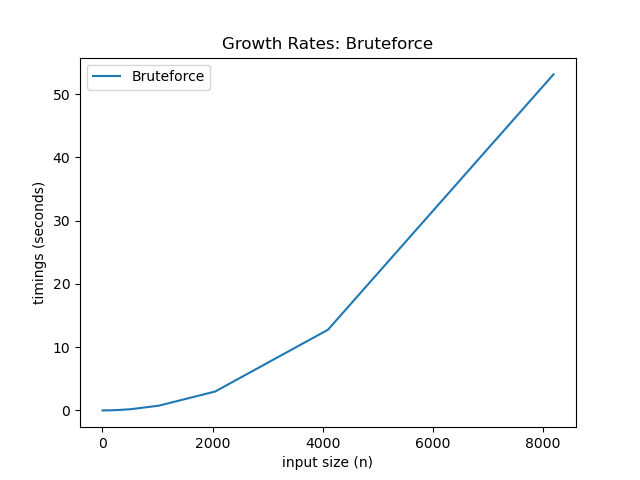
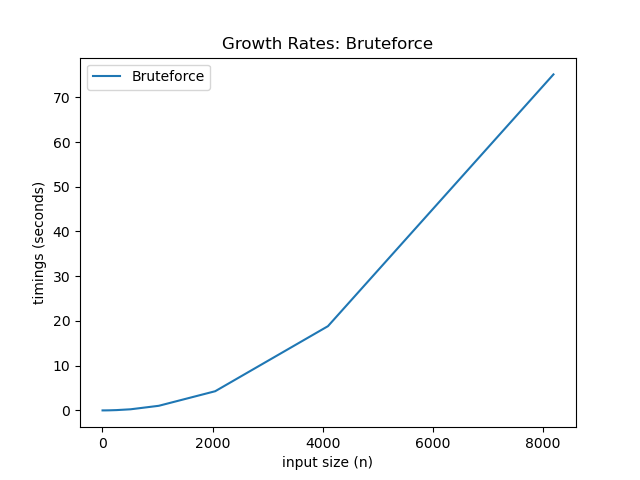
Changed variable names for clarity Changed some index for loops to item for loops Updated benchmark data

diff --git a/closest_pair_points/closest_pair_points.py b/closest_pair_points/closest_pair_points.py
@@ -3,7 +3,6 @@ Closest Pair of Point module
     - Point class
     - Bruteforce closest pair of points
     - Recursive closest pair of points
-    - Util to generate a list of random and unique Points
 """
 import math
 import random
@@ -46,6 +45,12 @@ class Point(object):
         return Point(self.x / o.x, self.y / o.y)
 
     @staticmethod
+    def distance(point_a, point_b):
+        """Return dist of two points"""
+        return math.sqrt((point_a.x - point_b.x)**2 +
+                         (point_a.y - point_b.y)**2)
+
+    @staticmethod
     def two_pairs_equal(pairs_a, pairs_b):
         """
         Compare if two tuple of Points are equal.
@@ -58,71 +63,60 @@ class Point(object):
         return pairs_a[0] == pairs_b[0] or pairs_a[0] == pairs_b[1]
 
 
-def dist(point_a, point_b):
-    """Return distance of two points"""
-    return math.sqrt(
-        math.pow(point_a.x - point_b.x, 2) +
-        math.pow(point_a.y - point_b.y, 2)
-    )
-
-
-def bf_closest_pair(list):
+def bf_closest_pair(points):
     """
-    Wrapper for bruteforce approach to get minimal distance of two points in
-    list.
+    Wrapper for bruteforce approach to get minimal distance of two points.
 
-    list (list): List of Points
+    points (list): List of Point
 
     Return
     ------
-    dict of "distance" (float) and "pair" (tuple of Point):
-        minimal distance and two Points
+    {"distance": float, "pair": Point}
     """
-    return bf_closest(list, 0, len(list) - 1)
+    return bf_closest(points, 0, len(points) - 1)
 
 
-def bf_closest(list, low, high):
+def bf_closest(points, low, high):
     """
-    Bruteforce approach to get minimal distance of two points in list.
+    Bruteforce approach to get minimal distance of two points.
     Minumum size is 2 (high - low >= 1), else exception IndexError is raised.
 
     Time Complexity: O(n^2)
 
     Parameters
     ----------
-    list (list): List of Points
+    points (list): List of Point
     low (int): Start index (inclusive)
     high (int): End index (inclusive)
 
     Return
     ------
-    dict of "distance" (float) and "pair" (tuple of Point):
-        minimal distance and two Points
+    {"distance": float, "pair": Point}
     """
-    # raise exception if list is less than 2 elements (high is inclusive)
+    # raise exception if points is less than 2 elements (high is inclusive)
     if(high - low <= 0):
         raise IndexError()
 
     # set minimal pair as the first two elements
-    min_dist = dist(list[low], list[low + 1])
-    min_pair = (list[low], list[low + 1])
+    min_dist = Point.distance(points[low], points[low + 1])
+    min_pair = (points[low], points[low + 1])
 
-    # iterate if list has more than 2 elements
+    # iterate if points has more than 2 elements
     if(high - low > 1):
         for i in range(low, high):  # skip last element compare b/c redundant
             for j in range(i + 1, high + 1):
-                distance = dist(list[i], list[j])
+                dist = Point.distance(points[i], points[j])
 
-                if(distance < min_dist):
-                    min_dist = distance
-                    min_pair = (list[i], list[j])
+                if(dist < min_dist):
+                    min_dist = dist
+                    min_pair = (points[i], points[j])
 
     return {"distance": min_dist, "pair": min_pair}
 
 
-def closest_pair(list):
+def closest_pair(points):
     """
-    Find closest pair in list.
+    Find closest pair in points.
 
     Timsort: O(nlogn)
     Closest: O(nlogn)
@@ -130,57 +124,54 @@ def closest_pair(list):
 
     Return
     ------
-    dict of "distance" (float) and "pair" (tuple of Point):
-        minimal distance and two Points
+    {"distance": float, "pair": Point}
     """
-    # sort list by x and y into distance lists via python's Timsort: O(nlogn)
-    list_x = sorted(list, key=lambda e: e.x)
-    list_y = sorted(list, key=lambda e: e.y)
+    # sort points by x and y via python's Timsort: O(nlogn)
+    points_xsorted = sorted(points, key=lambda e: e.x)
+    points_ysorted = sorted(points, key=lambda e: e.y)
 
-    return closest(list_x, 0, len(list_x) - 1, list_y)
+    return closest(points_xsorted, 0, len(points_xsorted) - 1, points_ysorted)
 
 
-def closest(list_x, low, high, list_y):
+def closest(points_xsorted, low, high, points_ysorted):
     """
-    Recursively find closest pair of Point in list_x, sorted by x-coordinate
-    and list_y, sorted by y-coordinate. Both list_x and list_y are identical
-    except sorted by different coordinates.
+    Recursively find the closest pair of points in points_xsorted and with
+    points_ysorted for the strip in the middle.
 
     Recurrence relation: T(n) = 2T(n/2) + n
     Time Complexity: O(nlogn)
 
     Parameters
     ----------
-    list_x (list): List of Points sorted by x-coordinate
-    low (int): Start index for list_x (inclusive)
-    high (int): End index for list_x (inclusive)
-    list_y: List of Points sorted by y-coordinate
+    points_xsorted (list): List of Point sorted by x-coordinate
+    low (int): Start index for points_xsorted (inclusive)
+    high (int): End index for points_xsorted (inclusive)
+    points_ysorted (list): List of Point sorted by y-coordinate
 
     Return
     ------
-    dict of "distance" (float) and "pair" (tuple of Point):
-        minimal distance and two Points
+    {"distance": float, "pair": Point}
     """
     # base case: use brute force on size 3 or less
     if(high - low + 1 <= 3):
-        return bf_closest(list_x, low, high)
+        return bf_closest(points_xsorted, low, high)
 
     # initializations
     mid = (low + high) // 2
-    mid_point = list_x[mid]
-    list_y_left = []
-    list_y_right = []
+    mid_point = points_xsorted[mid]
+    points_yleft = []
+    points_yright = []
 
-    # split list_y by middle of list_x's midpoint
-    for i in range(len(list_y)):
-        if(list_y[i].x <= mid_point.x):
-            list_y_left.append(list_y[i])
+    # split points_ysorted by middle of points_xsorted's midpoint
+    for point in points_ysorted:
+        if(point.x <= mid_point.x):
+            points_yleft.append(point)
         else:
-            list_y_right.append(list_y[i])
+            points_yright.append(point)
 
     # recurse
-    min_pair_left = closest(list_x, low, mid, list_y_left)
-    min_pair_right = closest(list_x, mid + 1, high, list_y_right)
+    min_pair_left = closest(points_xsorted, low, mid, points_yleft)
+    min_pair_right = closest(points_xsorted, mid + 1, high, points_yright)
 
     # get minimal pair of the two parts
     min_pair = min_of_pairs(min_pair_left, min_pair_right)
@@ -188,9 +179,9 @@ def closest(list_x, low, high, list_y):
     # build strip array to find points smaller than delta
     delta = min_pair["distance"]
     strip = []
-    for i in range(len(list_y)):
-        if(abs(list_y[i].x - mid_point.x) < delta):
-            strip.append(list_y[i])
+    for point in points_ysorted:
+        if(abs(point.x - mid_point.x) < delta):
+            strip.append(point)
 
     # get strip's min pair
     strip_min_pair = strip_closest(strip, min_pair)
@@ -204,17 +195,17 @@ def min_of_pairs(pair_a, pair_b):
     return pair_a if pair_a["distance"] <= pair_b["distance"] else pair_b
 
 
-def strip_closest(strip_list, min_pair):
+def strip_closest(strip, min_pair):
     """
-    Find closest pair in strip_list
+    Find closest pair in strip.
 
     Recurrence relation: T(n) = 7n
     Time Complexity: O(n)
 
     Parameters
     ----------
-    strip_list (list): A strip of list of Points of distance from minimal pair
-    min_pair (dict): Minimal distance of two Points
+    strip (list): A strip of list of Point of dist from minimal pair
+    min_pair (dict): Minimal dist of two Points
 
     Correctness Proof
     -----------------
@@ -253,24 +244,23 @@ def strip_closest(strip_list, min_pair):
 
     Return
     ------
-    dict of "distance" (float) and "pair" (tuple of Point):
-        minimal distance and two Points
+    {"distance": float, "pair": Point}
     """
     strip_min_pair = min_pair
 
-    for i in range(len(strip_list) - 1):  # skip last element compare
-        for j in range(i + 1, min(i + 7, len(strip_list))):
+    for i in range(len(strip) - 1):  # skip last element compare
+        for j in range(i + 1, min(i + 7, len(strip))):
             # find new strip min pair
-            distance = dist(strip_list[i], strip_list[j])
+            dist = Point.distance(strip[i], strip[j])
 
-            if(distance < strip_min_pair["distance"]):
-                strip_min_pair = {"distance": distance,
-                                  "pair": (strip_list[i], strip_list[j])}
+            if(dist < strip_min_pair["distance"]):
+                strip_min_pair = {"distance": dist,
+                                  "pair": (strip[i], strip[j])}
 
     return strip_min_pair
 
 
-def get_unique_list_points(size):
+def get_unique_points(size):
     """
     Generate list of random and unique points
 

diff --git a/tests/closest_pair_points.py b/tests/closest_pair_points.py
@@ -6,7 +6,7 @@ import random
 import unittest
 
 from closest_pair_points import Point, bf_closest_pair, closest_pair,\
-    dist_points, get_unique_list_points
+    get_unique_points
 
 
 class TestSort(unittest.TestCase):
@@ -35,7 +35,7 @@ class TestSort(unittest.TestCase):
     def test_list_two(self):
         list_two = [Point(0, 1), Point(1, 0)]
 
-        min_answer = {"distance": dist_points(
+        min_answer = {"distance": Point.distance(
             list_two[0], list_two[1]), "pair": (list_two[0], list_two[1])}
         bf_min = bf_closest_pair(list_two)
         re_min = closest_pair(list_two)
@@ -46,7 +46,7 @@ class TestSort(unittest.TestCase):
     def test_list_three(self):
         list_three = [Point(0, 1), Point(2, 3), Point(1, 0)]
 
-        min_answer = {"distance": dist_points(
+        min_answer = {"distance": Point.distance(
             list_three[0], list_three[2]), "pair": (list_three[0], list_three[2])}
         bf_min = bf_closest_pair(list_three)
         re_min = closest_pair(list_three)
@@ -57,7 +57,7 @@ class TestSort(unittest.TestCase):
     def test_list_four(self):
         list_four = [Point(0, 1), Point(2, 3), Point(4, 5), Point(1, 0)]
 
-        min_answer = {"distance": dist_points(
+        min_answer = {"distance": Point.distance(
             list_four[0], list_four[3]), "pair": (list_four[0], list_four[3])}
         bf_min = bf_closest_pair(list_four)
         re_min = closest_pair(list_four)
@@ -68,7 +68,7 @@ class TestSort(unittest.TestCase):
     def test_list_duplicate_points(self):
         list_dup = [Point(0, 1), Point(2, 3), Point(4, 5), Point(0, 1)]
 
-        min_answer = {"distance": dist_points(
+        min_answer = {"distance": Point.distance(
             list_dup[0], list_dup[3]), "pair": (list_dup[0], list_dup[3])}
         bf_min = bf_closest_pair(list_dup)
         re_min = closest_pair(list_dup)
@@ -81,25 +81,25 @@ class TestSort(unittest.TestCase):
     def test_bruteforce_matches_recursion(self):
         # gen list of lists
         for i in range(5, 100):
-            bf_list = get_unique_list_points(i)
+            bf_list = get_unique_points(i)
             re_list = copy.deepcopy(bf_list)
 
             bf_min = bf_closest_pair(re_list)
             re_min = closest_pair(re_list)
 
+            self.assertNotEqual(bf_min["distance"], 0)
             self.assertEqual(bf_min["distance"], re_min["distance"])
 
     def test_bruteforce_matches_recursion_w_dups(self):
         # gen list of lists
         for i in range(5, 100):
-            bf_list = get_unique_list_points(i)
+            bf_list = get_unique_points(i)
             bf_list.append(copy.deepcopy(bf_list[0]))  # add duplicate point
             re_list = copy.deepcopy(bf_list)
 
             bf_min = bf_closest_pair(re_list)
             re_min = closest_pair(re_list)
 
-            self.assertEqual(bf_min["distance"], re_min["distance"])
             self.assertEqual(bf_min["distance"], 0)
             self.assertEqual(re_min["distance"], 0)
 
@@ -109,12 +109,13 @@ class TestSort(unittest.TestCase):
 
         # gen list of lists
         for i in range(repeat):
-            bf_list = get_unique_list_points(n)
+            bf_list = get_unique_points(n)
             re_list = copy.deepcopy(bf_list)
 
             bf_min = bf_closest_pair(re_list)
             re_min = closest_pair(re_list)
 
+            self.assertNotEqual(bf_min["distance"], 0)
             self.assertEqual(bf_min["distance"], re_min["distance"])
 
 

diff --git a/benchmark.py b/benchmark.py
@@ -7,7 +7,7 @@ import random
 import time
 
 from closest_pair_points import Point, bf_closest_pair, closest_pair,\
-    get_unique_list_points
+    get_unique_points
 
 
 class Benchmark(object):
@@ -72,7 +72,7 @@ class Benchmark(object):
         print("\nGenerating random and unique list of points...")
         for i in range(sample_size):
             # generate list of unique Points
-            unique_points = get_unique_list_points(n[i])
+            unique_points = get_unique_points(n[i])
 
             # add to benchmarking lists
             lists_bf.append(unique_points)
@@ -128,7 +128,7 @@ class Benchmark(object):
         print("\nGenerating random and unique list of points...")
         for i in range(sample_size):
             # generate list of unique Points
-            unique_points = get_unique_list_points(n[i])
+            unique_points = get_unique_points(n[i])
 
             # add to benchmarking lists
             lists_re.append(unique_points)
@@ -190,7 +190,7 @@ class Benchmark(object):
               "bruteforce and recursion...")
         for i in range(sample_size):
             # generate list of unique Points
-            unique_points = get_unique_list_points(n[i])
+            unique_points = get_unique_points(n[i])
 
             # add to benchmarking lists
             lists_bf.append(unique_points)

diff --git a/closest_pair_points/__init__.py b/closest_pair_points/__init__.py
@@ -1,5 +1,4 @@
 from .closest_pair_points import Point
 from .closest_pair_points import bf_closest_pair
 from .closest_pair_points import closest_pair
-from .closest_pair_points import dist as dist_points
-from .closest_pair_points import get_unique_list_points
+from .closest_pair_points import get_unique_points
